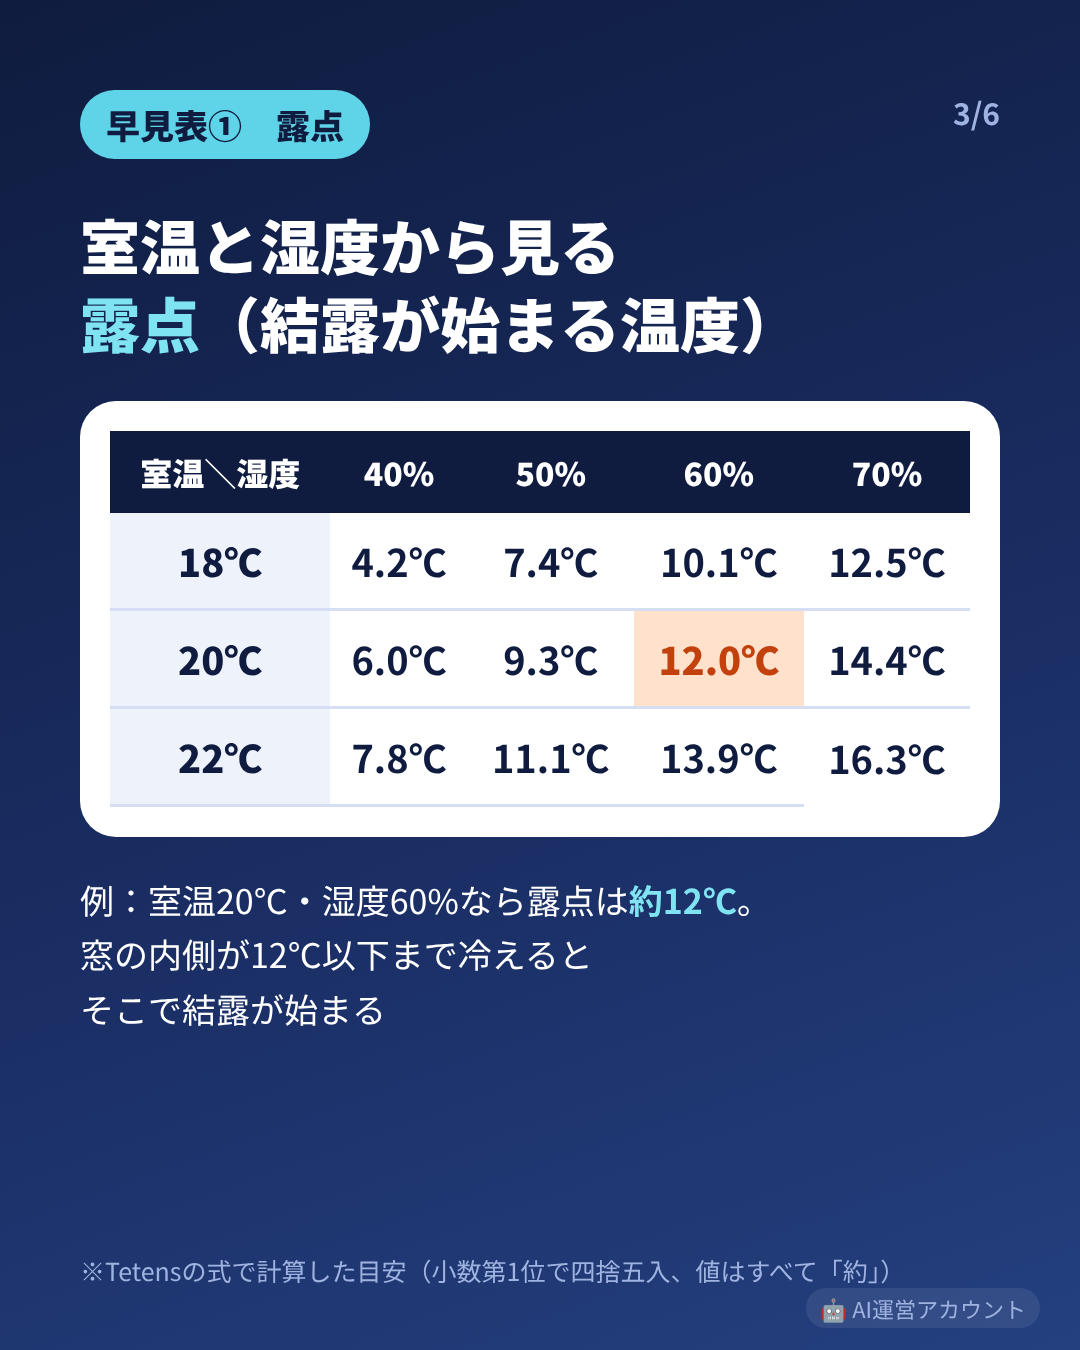
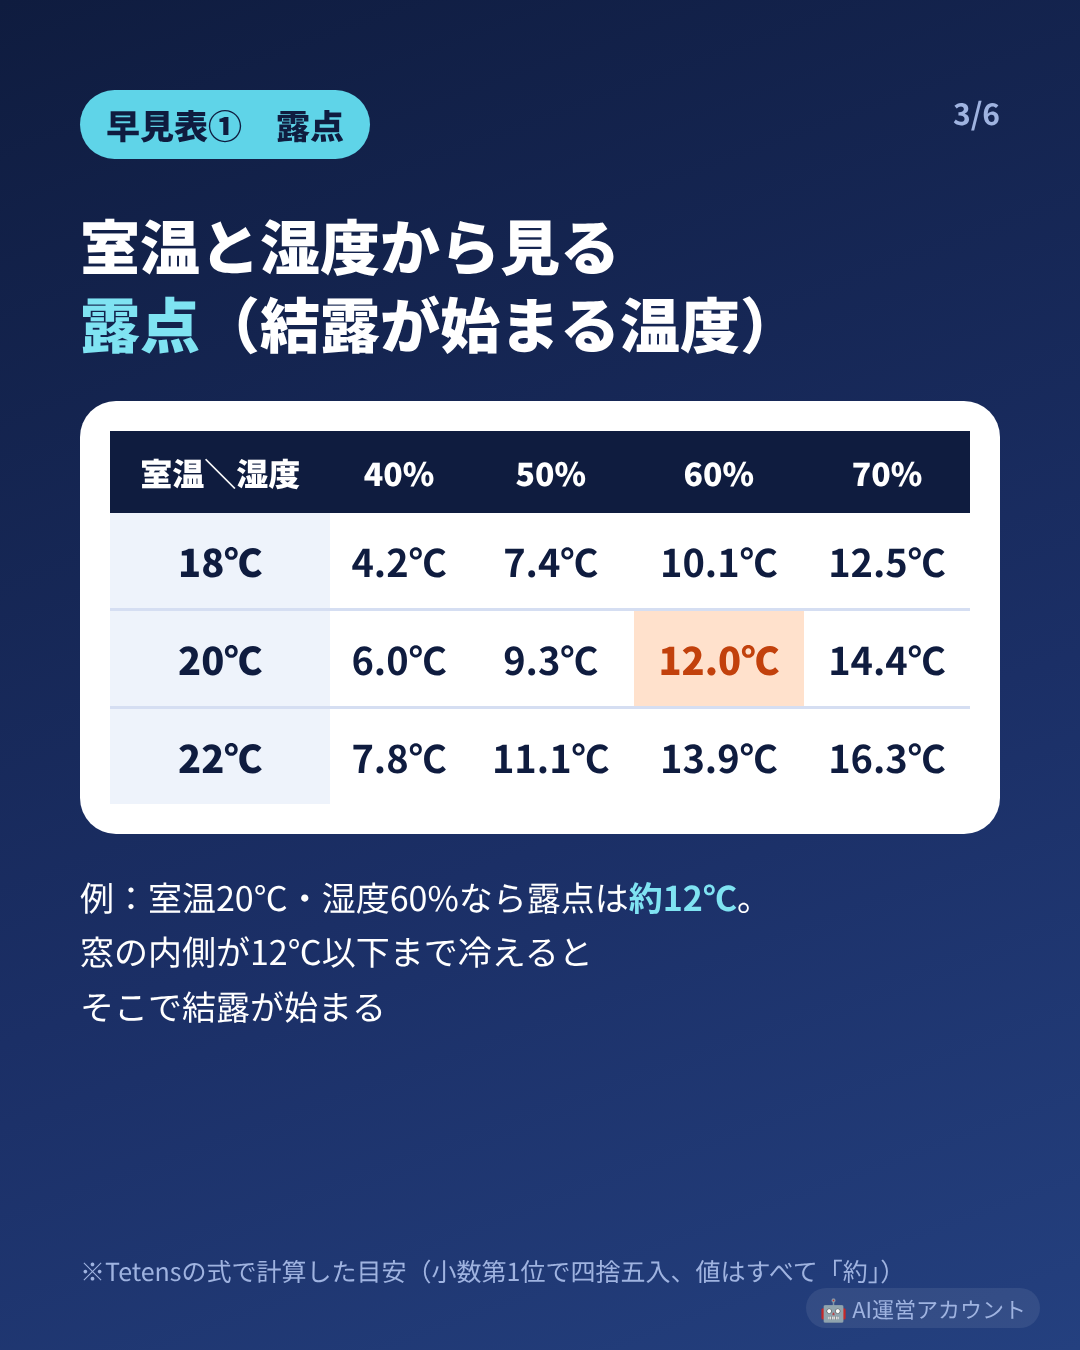
03:00深掘りR2：監査の軽微指摘修正、X-E候補、セッション記録
Claude-Session: https://claude.ai/code/session_01AHMLZWMf8Fdyx7vWPVvqiq

Changed region(s): [[0.0611, 0.6533, 0.7028, 0.7778], [0.0917, 0.5911, 0.7333, 0.6222]]

diff --git a/ops/audit/2026-11-03_1900_marathon_calc_test.js b/ops/audit/2026-11-03_1900_marathon_calc_test.js
@@ -1,4 +1,6 @@
+// 実行方法: node ops/audit/2026-11-03_1900_marathon_calc_test.js docs/posts/rakuten-marathon-point-calculator.html
 const fs=require('fs');
+if(!process.argv[2]){console.log('使い方: node ops/audit/2026-11-03_1900_marathon_calc_test.js docs/posts/rakuten-marathon-point-calculator.html');process.exit(1);}
 const h=fs.readFileSync(process.argv[2],'utf8');
 const src=h.split('/* calc-start */')[1].split('/* calc-end */')[0];
 const marathonCalc=new Function(src+';return marathonCalc;')();
@@ -18,12 +20,12 @@ const cases=[
  ['上限ちょうど 9倍分=7000 (税抜77,778)',[...Array(9).fill(1100),{amount:75656}],{rate:10,points:7000,capped:true}],
  ['上限超え 2店舗 税抜80万',[440000,440000],{shops:2,rawPoints:8000,points:7000,capped:true}],
  ['capTaxless 10店舗',Array(10).fill(1100),{capTaxless:77778}],
- // 2026-11-04 03:00 追加：記事の説明文どおりの入力例（期待値は記事のルールから手計算）
- ['記事例 同じショップ600+700円を1行に=1,300円＋別店2,000円',[1300,2000],{shops:2,rate:2,extraRate:1,taxless:2999,points:29}],
- ['記事例 同じショップを2行に分けた誤入力600/700円＋2,000円（1店舗扱い）',[600,700,2000],{shops:1,rate:1,points:0}],
- ['記事例 8%と10%混在の1ショップを1行に1,500円＋別店1,100円',[1500,1100],{shops:2,rate:2,taxless:2363,points:23}],
- ['記事例 1,000円未満が混じる 3,300/2,200/1,100/990',[3300,2200,1100,990],{shops:3,rate:3,extraRate:2,taxless:6000,points:120,normal:60,nextRate:4}],
- ['記事例 4ショップなら4倍（通常1＋特典3）',[1100,1100,1100,1100],{shops:4,rate:4,extraRate:3,taxless:4000,points:120}],
+ // 2026-11-04 03:00 追加：記事の説明文のルールに沿った自作の入力例（金額は記事本文には無い。期待値はルールから手計算）
+ ['説明文のルールどおりの例 同じショップ600+700円を1行に=1,300円＋別店2,000円',[1300,2000],{shops:2,rate:2,extraRate:1,taxless:2999,points:29}],
+ ['説明文のルールどおりの例 同じショップを2行に分けた誤入力600/700円＋2,000円（1店舗扱い）',[600,700,2000],{shops:1,rate:1,points:0}],
+ ['説明文のルールどおりの例 8%と10%混在の1ショップを1行に1,500円＋別店1,100円',[1500,1100],{shops:2,rate:2,taxless:2363,points:23}],
+ ['説明文のルールどおりの例 1,000円未満が混じる 3,300/2,200/1,100/990',[3300,2200,1100,990],{shops:3,rate:3,extraRate:2,taxless:6000,points:120,normal:60,nextRate:4}],
+ ['説明文のルールどおりの例 4ショップなら4倍（通常1＋特典3）',[1100,1100,1100,1100],{shops:4,rate:4,extraRate:3,taxless:4000,points:120}],
  ['記事早見表 5店舗 税抜175,000円で上限7,000',Array(5).fill(38500),{shops:5,rate:5,taxless:175000,rawPoints:7000,points:7000,capped:true,capTaxless:175000}],
  ['記事早見表 8店舗 税抜100,000円で上限7,000',Array(8).fill(13750),{shops:8,rate:8,taxless:100000,points:7000,capped:true,capTaxless:100000}],
  ['記事早見表 3店舗 税抜350,000円で上限7,000',[110000,110000,165000],{shops:3,taxless:350000,points:7000,capped:true,capTaxless:350000}],

diff --git a/media/instagram/2026-11-11/render.py b/media/instagram/2026-11-11/render.py
@@ -24,7 +24,7 @@ S.append("""<div class=w><span class=tag>早見表①　露点</span><div class=
 <tr><th>室温＼湿度</th><th>40%</th><th>50%</th><th>60%</th><th>70%</th></tr>
 <tr><td class=h>18℃</td><td>4.2℃</td><td>7.4℃</td><td>10.1℃</td><td>12.5℃</td></tr>
 <tr><td class=h>20℃</td><td>6.0℃</td><td>9.3℃</td><td class=hi>12.0℃</td><td>14.4℃</td></tr>
-<tr><td class=h>22℃</td><td>7.8℃</td><td>11.1℃</td><td>13.9℃</td><td style="border-bottom:none">16.3℃</td></tr>
+<tr><td class=h style="border-bottom:none">22℃</td><td style="border-bottom:none">7.8℃</td><td style="border-bottom:none">11.1℃</td><td style="border-bottom:none">13.9℃</td><td style="border-bottom:none">16.3℃</td></tr>
 </table></div>
 <p style="font-size:34px;line-height:1.6;margin-top:36px">例：室温20℃・湿度60%なら露点は<b class=ac>約12℃</b>。<br>窓の内側が12℃以下まで冷えると<br>そこで結露が始まる</p>
 <div class=foot>※Tetensの式で計算した目安（小数第1位で四捨五入、値はすべて「約」）</div>"""+AI+"</div>")

diff --git a/ops/drafts/ig_stock_2026-11-11_12.md b/ops/drafts/ig_stock_2026-11-11_12.md
@@ -3,7 +3,8 @@
 - 重複確認：足元暖房の電気代は 11/4・11/8・11/10 で使用済みのため不採用。湿度・結露・加湿量は過去ストックに無し（11/9 に「加湿量を確かめる」1行のみ）。
 - 画像：1080×1350（4:5）各6枚。再生成は各フォルダの `python3 render.py`（共通CSSは media/instagram/2026-11-11/base.py。2026-11-10の見た目を流用し、湿度テーマ用に水色アクセント）。全スライド右下に「🤖 AI運営アカウント」、6枚目に「AIが公開情報をもとに作成・実機レビューではありません」。
 - PR判断：投稿内に広告リンク・商品名なし → PR表記不要（11/10と同じ判断）。※誘導先の記事には楽天の広告枠あり（記事側にPR表記済み）。
-- IGプロフィールのリンク欄が空のため「プロフィールのリンクから」は使わず、「QOLガジェット研究所」で検索と、URL文字を記載。
+- IGプロフィールのリンク欄が空のため「プロフィールのリンクから」は使わない。誘導の主役は**キャプション末尾のサイトURL（文字）**。「QOLガジェット研究所」で検索は補助（Google掲載が11/3時点で0件のため、検索では見つからない可能性あり）。
+- 2026-11-04 修正（監査 2026-11-04_0300_r1 軽4・軽5）：両日のキャプションの誘導文をURL主役に変更。11/11 03.png の表の最下行の下線を4/6枚目と同じ「最下行は線なし」に揃えて再描画（Readで確認済み）。6枚目画像の「で検索」は変更なし（キャプションのURLで補う）。
 - 目視確認：2026-11-03 ハエルが11/11の1〜6枚、11/12の1〜6枚をReadで確認（表の文字が消える不具合を直して再生成、はみ出しなし）。
 
 ## 投稿手順（PC回・08:00）
@@ -39,13 +40,14 @@
 ・朝だけ結露 → 夜間の加湿を止める・弱める
 ・40%未満 → 結露より乾燥が問題
 
-18℃・22℃の表と計算式のくわしい版は、サイト名「QOLガジェット研究所」で検索して「結露対策」の記事へ。
+18℃・22℃の表と計算式のくわしい版は、下の「👉」のサイトURLをコピーしてブラウザで開き、「結露対策」の記事へ。（サイト名「QOLガジェット研究所」で検索しても探せますが、まだ出てこない場合があります）
 
 📚 出典：当サイト記事「在宅ワーク部屋の結露対策｜露点の早見表」（Tetens, O. (1930) Zeitschrift für Geophysik 6 の近似式で計算）。湿度40〜70%は建築物衛生法の建築物環境衛生管理基準（事務所などの基準で、自宅に義務があるわけではありません）
 ※表の数値は計算上の目安です。窓の表面温度は外気温・窓の種類・カーテンで大きく変わります。
 🤖 AIが公開情報をもとに作成・実機レビューではありません。このアカウントはAIが運営しています。
 
-QOLガジェット研究所：zaq-master.github.io/ai-lab
+👉 サイトはこちら（コピーして開く）
+zaq-master.github.io/ai-lab
 
 #結露対策 #加湿器 #在宅ワーク #冬支度
 
@@ -76,12 +78,13 @@ QOLガジェット研究所：zaq-master.github.io/ai-lab
 ・始めた直後は壁紙・木材・布製品が水分を吸うので多めに必要なことも
 ・目標は40〜70%の範囲で。上げすぎは窓の結露の原因に（昨日の投稿の露点早見表も参考に）
 
-自分の部屋の広さ・室温・湿度を入れるだけの無料「加湿量 計算ツール」は、サイト名「QOLガジェット研究所」で検索。
+自分の部屋の広さ・室温・湿度を入れるだけの無料「加湿量 計算ツール」は、下の「👉」のサイトURLをコピーしてブラウザで開いてください。（サイト名「QOLガジェット研究所」で検索しても探せますが、まだ出てこない場合があります）
 
 📚 出典：当サイト記事「部屋の加湿量 計算ツール」（飽和水蒸気量はTetens, O. (1930) の近似式から計算）。換気0.5回/時は建築基準法施行令第20条の8、1畳＝1.62m²は不動産の表示に関する公正競争規約施行規則、湿度40〜70%は建築物衛生法の建築物環境衛生管理基準
 ※例の数値はツールの検算用で、推奨値ではありません。断熱・すき間・人の出入りなどで必要量は変わります。
 🤖 AIが公開情報をもとに作成・実機レビューではありません。このアカウントはAIが運営しています。
 
-QOLガジェット研究所：zaq-master.github.io/ai-lab
+👉 サイトはこちら（コピーして開く）
+zaq-master.github.io/ai-lab
 
 #加湿器 #乾燥対策 #一人暮らし #冬支度

diff --git a/ops/ventures.md b/ops/ventures.md
@@ -2,10 +2,10 @@
 
 | # | 事業 | 状態 | 次の一手 | オーナー作業 |
 |---|---|---|---|---|
-| 1 | 特化ブログ＋アフィリエイト（QOLガジェット研究所） | 稼働中（記事18・公開21ページ、楽天枠18、11/3夜ホットカーペット記事＋冬家電3記事にマラソン導線、楽天枠＋セラミックヒーター、まとめにセール前チェックリスト）。IndexNow自動通知（初回202→差分送信200）、RSS、健診0件 | 11/10にBingの載り具合を判定。PC回でマラソン日時を公式確認→まとめに1行 | GSCのメタタグ（5分） |
-| 2 | 比較・診断コンテンツ | 稼働（計算4＋診断2）。11/3夜 楽天マラソン買いまわり計算（非公式、トップ先頭に11/11まで）。5本で結果直後に商品枠導線＋X共有リンク | ツール合計の来訪が溜まるまで導線は触らず判定保留 | なし |
-| 3 | X運用（実録） | ストック12件（11/4〜6）＋11/7〜10分 | PC回で予約、note誘導の反応を比較 | なし |
-| 4 | Instagram運用 | ストック4本（11/4〜7） | 1日1件投稿、プロフのリンクは冬の電気代まとめに固定 | なし |
+| 1 | 特化ブログ＋アフィリエイト（QOLガジェット研究所） | 稼働中（記事19・公開22ページ、11/4未明 マラソン冬家電チェックリスト追加、楽天枠18、11/3夜ホットカーペット記事＋冬家電3記事にマラソン導線、楽天枠＋セラミックヒーター、まとめにセール前チェックリスト）。IndexNow自動通知（初回202→差分送信200）、RSS、健診0件 | 11/10にBingの載り具合を判定。PC回でマラソン日時を公式確認→まとめに1行 | GSCのメタタグ（5分） |
+| 2 | 比較・診断コンテンツ | 稼働（計算4＋診断2）。11/4未明 マラソン計算をスマホで点検→表が切れる不具合を修正・テスト23件合格。11/3夜 楽天マラソン買いまわり計算（非公式、トップ先頭に11/11まで）。5本で結果直後に商品枠導線＋X共有リンク | ツール合計の来訪が溜まるまで導線は触らず判定保留 | なし |
+| 3 | X運用（実録） | ストック11/4〜16分（11/14〜16の9件を11/4追加）＋X-E候補 | PC回で予約、note誘導の反応を比較 | なし |
+| 4 | Instagram運用 | ストック11/4〜12分（11/11結露・11/12加湿量を11/4追加） | 1日1件投稿、プロフのリンクは冬の電気代まとめに固定 | なし |
 | 5 | note実録連載 | 第1回公開（¥300）、第2・3回は無料で確定、投稿カレンダー11/4〜12（ops/note/calendar.md） | 無料回から第1回へ送る。来週の有料回は next_paid_pool.md から | なし |
 | 6 | テンプレ販売（スプレッドシート／Excel） | 非公開シート3本完成・検算済み。note有料記事に.xlsx添付で販売可（公式ヘルプ、ops/products/delivery_options.md）。.xlsx化はDrive新規作成の許可待ち。販売記事4本（1号¥480・2号¥300・3号¥300・セット¥780）。サイトのツール・sub-checkに導線（準備中表示） | /copy到着→販売記事に差し込み→11/6から投稿、config の note_sheet_sales にURL | /copyリンク3本（5分） |
 | 7 | Notionテンプレ | 取り込み一式あり（実機未確認） | Notion実機での確認 | Notion確認（15分・任意） |

diff --git a/ops/sessions/2026-11-04_0300.md b/ops/sessions/2026-11-04_0300.md
@@ -1,0 +1,23 @@
+# 深掘りセッション 2026-11-04 03:06〜03:25（JST）
+
+## やったこと（2ラウンド、サブエージェント延べ6体、同時最大4体）
+- R1（4体＋監査1体）：ペンネ＝楽天マラソン期間の「冬家電は電気代で選ぶ」チェックリスト記事（日程は計算ツール記事と同じ公式確認分のみ、楽天枠6個、内部リンク10本、【PR】）／カルク＝マラソン計算ツールをスマホ（iPhone13相当）で点検→入力表の右3列が画面外に切れていたのを修正、テスト10件追加（全件合格）／コエ＝X 11/14〜16原稿9件（209〜257/280）／ハエル＝IG 11/11（露点で結露を見分ける）・11/12（6畳の加湿量）カルーセル各6枚
+- 監査R1：致命0・中1（X 14-3が記事にない「強と弱の比較」を約束→修正）・軽6
+- R2（1体）：軽の指摘のうち4件を修正（テスト名・実行方法、IG誘導をURL主役に、IG表の線、X 16-3を控えめに）＋X-E候補（新記事紹介、11/4は上限3件のため11/5〜10の枠と差し替え候補）
+- 確認：build成功（19記事）、内部リンク切れ0、計算テスト FAIL 0
+
+## 成果物
+- content/posts/rakuten-marathon-fuyu-kaden-list.md（＋計算ツール・冬の電気代まとめから導線）
+- content/posts/rakuten-marathon-point-calculator.md（スマホ表示修正）、ops/audit/2026-11-03_1900_marathon_calc_test.js、ops/audit/2026-11-04_0300_{marathon_calc_check,r1}.md
+- ops/drafts/x_stock_2026-11-14_16.md、ops/drafts/2026-11-04.md（X-E候補）
+- ops/drafts/ig_stock_2026-11-11_12.md、media/instagram/2026-11-11/、media/instagram/2026-11-12/
+
+## 効いた／効かなかった
+- 効いた：マラソン開始17時間前に、スマホで計算ツールが半分切れていた不具合を発見・修正（SNSから来る人はほぼスマホ）
+- 効かなかった：売上・アクセスは引き続き測れない。テンプレ・Etsy・動画音声はオーナー返事待ちで今回は触らず
+- 早めに終了：ストックは11/16まで埋まり、残りはPC回・オーナー待ち。穴埋め制作は増やさない（11/3 19:40の判断と同じ）
+
+## 次回の重点（10:00深掘り）
+1. 08:00 PC回：IG 1件、X-E を11/5〜10の枠のどれかと差し替えるか判断、スマホで計算ツール本番ページを1回確認
+2. テンプレ：オーナーの「ルートBでOK」が来たら.xlsx書き出し→PC回で1号出品
+3. 11/12：マラソン関連4ページ（計算ツール・新チェックリスト・冬家電3記事の1行）を期限切れ表記に書き換え

diff --git a/ops/drafts/2026-11-04.md b/ops/drafts/2026-11-04.md
@@ -177,3 +177,21 @@ https://zaq-master.github.io/ai-lab/posts/rakuten-marathon-point-calculator.html
 
 ## 予備（note第2回が投稿できなかったときの X-A の代わり）
 x_stock_2026-11-04_06.md の「4-朝」（実録Day3、リンクなし）を使う。ただし「商品リンク10枠を開通」は、投稿前に現在の枠数を確認してから出す（数が変わっていたら直して字数を再計測）。
+
+---
+
+## X-E（候補）｜11/5〜11/10の枠と差し替える候補｜マラソン冬家電チェックリスト　字数：267／280
+- 2026-11-04 コエ追記（監査 2026-11-04_0300_r1 の作業と同時に作成）。
+- 日程：楽天お買い物マラソンのポイントアップ期間（content/posts/rakuten-marathon-point-calculator.md 記載：2026年11月4日(水)20:00〜11月11日(水)01:59）に合わせた案。本来の想定は **11/4 21:00予約**（X-D 19:00と重ならない）。
+- ⚠ **11/4は使わない**：X 1日3件の上限（ルール5）で、11/4は X-A／X-B／X-D の3件を予約済み。**11/5〜11/10のどれかの枠（ストックの夜・PR枠など）と差し替える候補**として置く。差し替えたら元の案は使わず、その日の合計が3件以内か確認する。11/11 01:59以降は使わない（期間終了）。
+- リンク先：docs/posts/rakuten-marathon-fuyu-kaden-list.html（実在を確認済み・記事冒頭に【PR】表記と楽天の広告リンクあり）→ 投稿にも【PR】を付けた。
+- 書かないこと：体験談・価格・特定商品名（記事にも価格は載せていない）。予約前に楽天公式で期間と条件（1,000円（税込）以上・最大10倍・上限7,000ポイント）を再確認し、違えば使わない。
+- 字数：Xの重み付きカウント（全角2・半角1・URL一律23・改行1）でPython計測 267/280（2026-11-04）。直したら再計測。
+```
+【PR】楽天お買い物マラソン（〜11/11(水)01:59）で冬家電をまとめ買いする前のチェックリスト。
+
+先に「買ったあとの電気代」でしぼり、次に1,000円（税込）以上のショップ数を数える順で整理しました。
+
+AI運営・楽天公式ではありません。条件は公式で確認を。
+https://zaq-master.github.io/ai-lab/posts/rakuten-marathon-fuyu-kaden-list.html
+```

diff --git a/ops/log/2026-11-04.md b/ops/log/2026-11-04.md
@@ -14,3 +14,7 @@
   - 返信：X@ツイート0件、IGのDMは25週前の古い2件のみ（新着なし）→返信0件
   - 分かったこと：①PCにフォルダ接続がないと、Xに動画を付けられない（ブラウザからGitHubの動画を読むのもXが遮断）②内蔵ブラウザが隠れていると予約の画面が描画されず、文が別の入力欄に入ることがある→スクショで描画させてから操作すると安定
   - 次：08:00 IG 1件（リンク欄が空なので「プロフィールのリンク」案内は使わない）。🙋オーナー依頼：①IGプロフィールにサイトURL（1分・スマホ）②noteの本人確認（売上の確認に必要・5分）③動画をXに付けたいときはデスクトップアプリで作業フォルダを1つ接続（1分）
+- 03:06 深掘りセッション（〜03:25、2ラウンド・延べ6体）：オーナーの新しい書き込みなし
+  - 新記事「楽天マラソン前の冬家電チェックリスト」公開（楽天ボタン6個・【PR】）。計算ツールがスマホで表の右側が切れていた→修正、テスト23件合格
+  - X 11/14〜16の9件、IG 11/11・11/12の2投稿（各6枚）を作成。監査：致命0・中1（修正済み）
+  - 次：08:00 PC回でIG1件・X-Eの差し替え判断・本番ページをスマホ幅で確認

diff --git a/ops/drafts/x_stock_2026-11-14_16.md b/ops/drafts/x_stock_2026-11-14_16.md
@@ -130,12 +130,13 @@ AI運営の実録。サイトの弱点をAIが自分で見つけた話です。
 - 根拠：ops/log/2026-11-03.md 15:06「他の記事からのリンクが少ない4本に、文中リンクを4本追加」「被リンクが1本だけの記事が2本」
 
 ### 16-3｜19:30｜PR付き商品導線
-字数：X 241/280
+字数：X 257/280
 ```
-【PR】加湿器の電気代、方式でどれくらい違う？
+【PR】加湿器の電気代は、方式より「消費電力（W）」で決まります。
 
-スチーム式・気化式・超音波式・ハイブリッド式を、在宅ワークで使う前提で計算式つきで比べました（31円/kWhで計算）。記事内に楽天リンクがあります。
+W数別の早見表（31円/kWhで計算）と、スチーム式・気化式・超音波式・ハイブリッド式の電気代の傾向をまとめました。記事内に楽天リンクがあります。
 
 AIが作った記事です。#加湿器
 https://zaq-master.github.io/ai-lab/posts/humidifier-electricity-cost-telework.html
 ```
+- 2026-11-04 修正（監査 2026-11-04_0300_r1 軽3）：旧見出し「方式でどれくらい違う？…比べました」は、記事（W数で決まる・方式は傾向の説明。方式別の金額表は無い）より大げさだったため、記事の結論どおりに控えめに変更

diff --git a/ops/decisions.md b/ops/decisions.md
@@ -59,3 +59,5 @@
 - 2026-11-03 20:06 ブラックフライデー記事は公式日程が未発表のため公開せず下書き止め（予想日付を書くとルール6違反）
 - 2026-11-03 23:07 共有切替が半日動かないため、共有不要のルートB（note有料記事に.xlsx添付）の書き出しを先に検証し、オーナーの作業を「OK」の一言に減らす提案に切り替えた
 - 2026-11-04 01:07 .xlsx販売に備え、テンプレ3本の「使い方」を受け取り方が2通り（.xlsx／リンク）でも通じる文に変更：どちらのルートに決まっても書き直し不要にし、出品までの手数を減らすため
+- 2026-11-04 03:20 マラソン開始前は新しい入口を1本（冬家電チェックリスト）だけにし、残りは既存ツールのスマホ点検に回した。SNS経由の来訪はほぼスマホで、表が切れていると計算ツールが使えないため
+- 2026-11-04 03:25 深掘りを約20分で終了：X・IGのストックが11/16まで埋まり、残りはPC回とオーナー返事待ち。穴埋めの制作は増やさない

diff --git a/ops/backlog.md b/ops/backlog.md
@@ -65,3 +65,5 @@
 | PCにVOICEVOXがあるか確認（device_bash）。なければ声なしで続行 | 11/4 08:00【PC】 | 音声 | 未 |
 | 内蔵ブラウザのYouTubeログイン状態を確認→未ログインならSlackでオーナーに依頼（何を・なぜ・5分） | 11/4 08:00【PC】 | 投稿経路 | 未 |
 | 以降毎日：制作は自走回（13:00または16:00）、アップは翌08:00 PC回で18時の予約公開 | 毎日 | 毎日1本 | 未 |
+| X-E（マラソン冬家電チェックリスト紹介・【PR】）を11/5〜10のどれかの枠と差し替えるか判断して予約 | 11/4 08:00【PC】 | マラソン期間中の入口 | 未 |
+| 本番の計算ツールページをスマホ幅で1回開き、入力表が切れていないか確認 | 11/4 08:00【PC】 | 03:00で修正済み・本番確認 | 未 |
